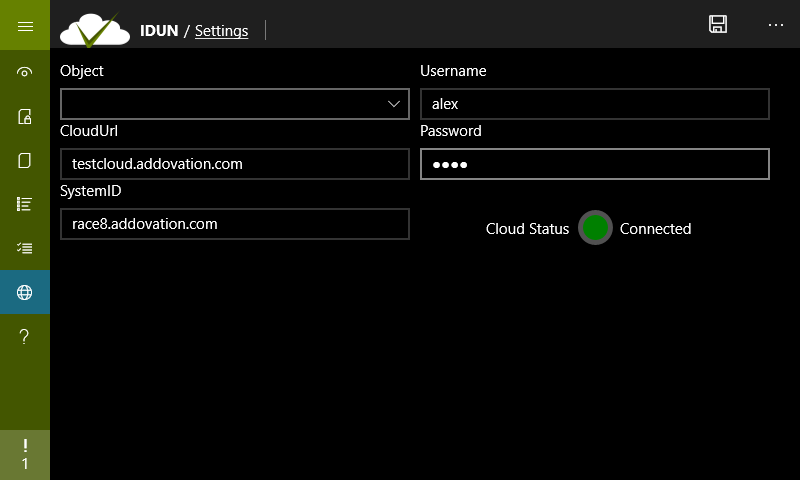
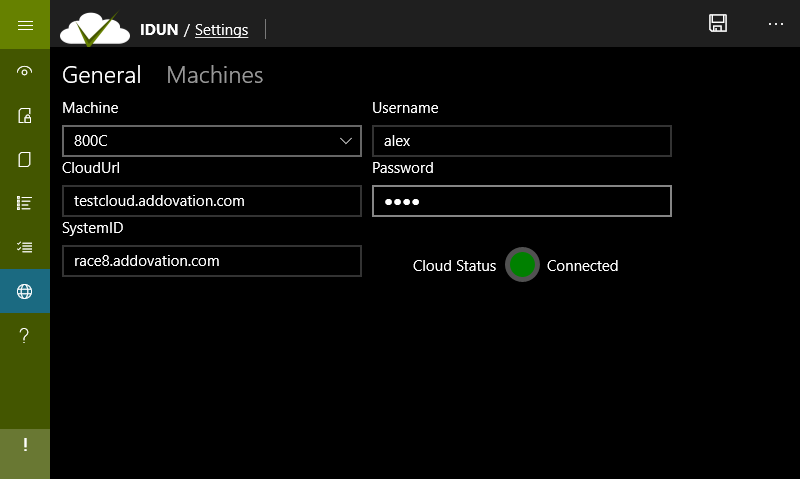
Keyboard attached, Tutorial updated

diff --git a/IDUNv2/Assets/IDUNTutorial.html b/IDUNv2/Assets/IDUNTutorial.html
@@ -102,11 +102,14 @@
 		<p class="c0"><span class="c1"></span></p>
 		<p class="c3 c6"><span class="c1">This is standard Text-To-Speech control with access to preinstalled voices.</span></p>
 		<p class="c0"><span class="c1"></span></p>
-		<p class="c3 c6" id="DeviceSettings"><span class="c1">To ensure Fault Reports are sent, device needs to be registered and authorised on a Cloud. For that </span><span class="c8 c1">Device Settings Page</span><span class="c1">&nbsp;is used.</span></p>
+		<p class="c3 c6" id="DeviceSettings"><span class="c1">To ensure Fault Reports are sent, device needs to be registered and authorized on a Cloud. For that </span><span class="c8 c1">Device Settings Page</span><span class="c1">&nbsp;is used.</span></p>
 		<p class="c0"><span class="c1"></span></p>
 		<p class="c3 c7"><span style="overflow: hidden; display: inline-block; margin: 0.00px 0.00px; border: 0.00px solid #000000; transform: rotate(0.00rad) translateZ(0px); -webkit-transform: rotate(0.00rad) translateZ(0px); width: 601.70px; height: 361.33px;"><img alt="" src="images/image09.png" style="width: 601.70px; height: 361.33px; margin-left: 0.00px; margin-top: 0.00px; transform: rotate(0.00rad) translateZ(0px); -webkit-transform: rotate(0.00rad) translateZ(0px);" title=""></span></p>
 		<p class="c0"><span class="c1"></span></p>
 		<p class="c3 c6"><span class="c1">After Valid data has been entered and saved, your device will be able to send fault reports to the Cloud, exchange Templates and see full history of the reports ever made by the device.</span></p>
 		<p class="c0"><span class="c1"></span></p><p class="c0"><span class="c1"></span></p>
+		<p class="c3 c7"><span style="overflow: hidden; display: inline-block; margin: 0.00px 0.00px; border: 0.00px solid #000000; transform: rotate(0.00rad) translateZ(0px); -webkit-transform: rotate(0.00rad) translateZ(0px); width: 601.70px; height: 361.33px;"><img alt="" src="images/image19.png" style="width: 601.70px; height: 361.33px; margin-left: 0.00px; margin-top: 0.00px; transform: rotate(0.00rad) translateZ(0px); -webkit-transform: rotate(0.00rad) translateZ(0px);" title=""></span></p>
+		<p class="c0"><span class="c1"></span></p>
+		<p class="c3 c6"><span class="c1">Setting up Machines will be required for completing Device Settings and Authorisation. All of the values are predefined on the Cloud and exact same values are required for healthy communication with the Cloud.</span></p>
 </body>
 </html>

diff --git a/IDUNv2/Pages/DeviceSettingsPage.xaml b/IDUNv2/Pages/DeviceSettingsPage.xaml
@@ -97,12 +97,16 @@
                                 Header="Object Id"
                                 Text="{Binding SelectedMachine.MchCode, Mode=TwoWay}"
                                 Width="200"
+                                GotFocus="TextBox_GotFocus"
+                                LostFocus="TBLostFocus"
                                 />
                             <TextBox
                                 Header="Site"
                                 Text="{Binding SelectedMachine.MchCodeContract, Mode=TwoWay}"
                                 Width="200"
                                 Margin="10,0,0,0"
+                                GotFocus="TextBox_GotFocus"
+                                LostFocus="TBLostFocus"
                                 />
                         </StackPanel>
                         <TextBox
@@ -110,6 +114,8 @@
                             Text="{Binding SelectedMachine.OrgCode, Mode=TwoWay}"
                             Width="200"
                             HorizontalAlignment="Left"
+                            GotFocus="TextBox_GotFocus"
+                                LostFocus="TBLostFocus"
                             />
                     </StackPanel>
                 </StackPanel>
